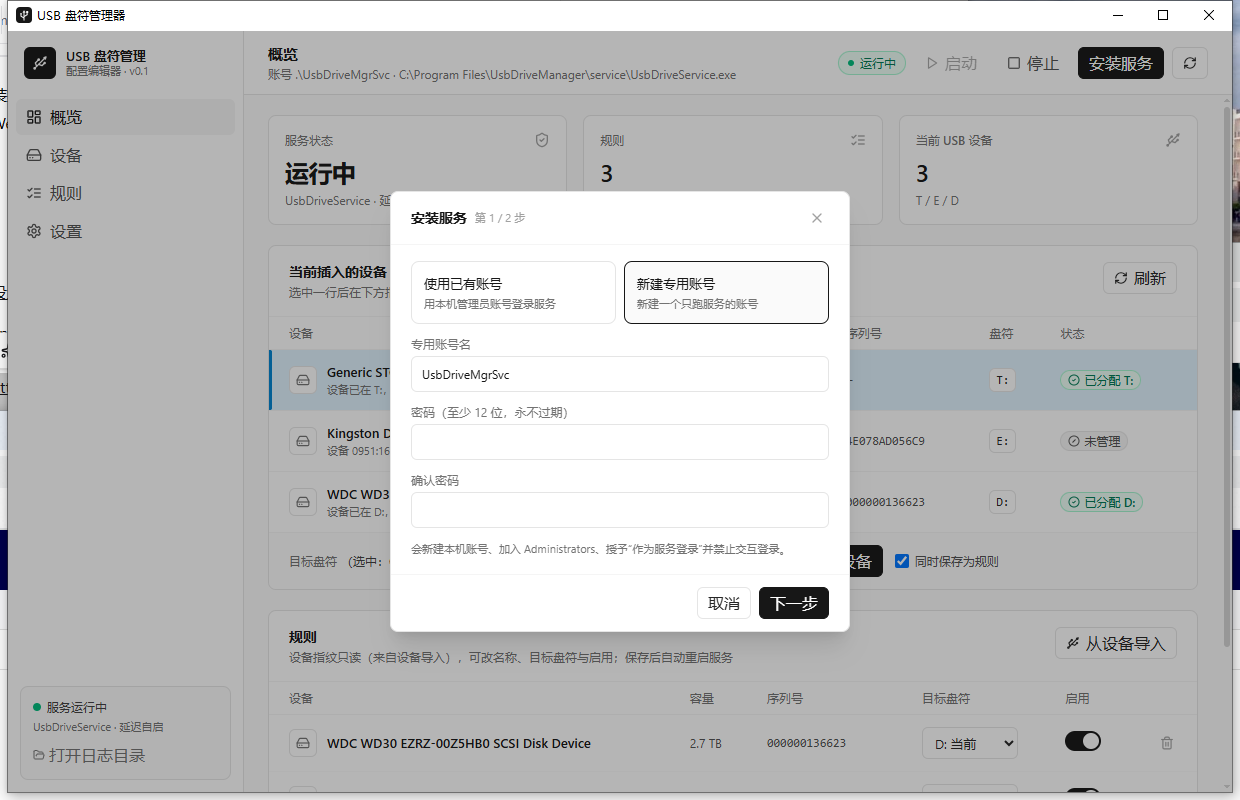
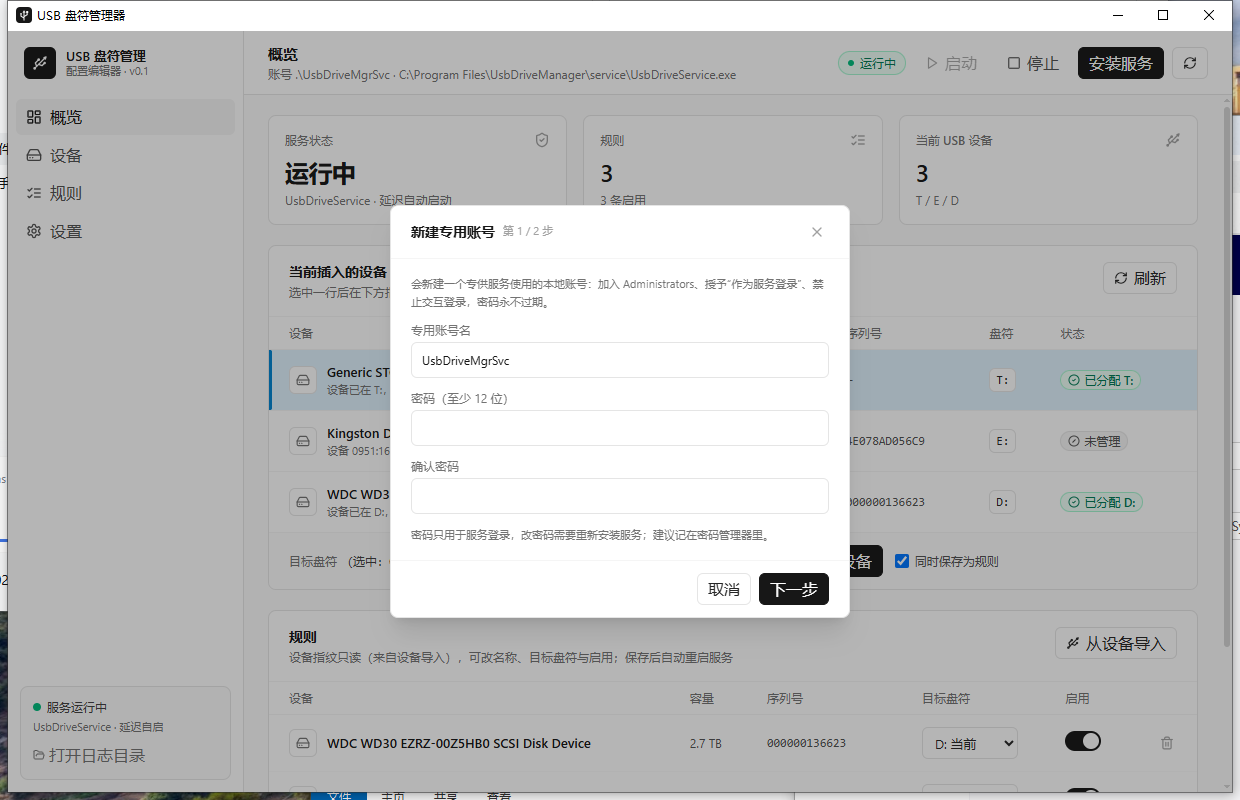
fix: 服务账号校验改用网络/服务登录，修复 1385；安装向导只保留新建账号
服务账号默认禁止交互登录，LogonUser(INTERACTIVE) 必然 1385；改为 NETWORK/SERVICE 依次尝试。向导去掉“已有账号”分支。

diff --git a/src/UsbConfigEditor.Web/src/App.tsx b/src/UsbConfigEditor.Web/src/App.tsx
@@ -209,11 +209,10 @@ function InstallDialog({
 }: {
   open: boolean
   onClose: () => void
-  onSubmit: (mode: 'existing' | 'create', account: string, password: string) => Promise<void>
+  onSubmit: (account: string, password: string) => Promise<void>
 }) {
   const [step, setStep] = useState<1 | 2 | 3>(1)
-  const [mode, setMode] = useState<'existing' | 'create'>('existing')
-  const [account, setAccount] = useState('')
+  const [account, setAccount] = useState('UsbDriveMgrSvc')
   const [password, setPassword] = useState('')
   const [confirm, setConfirm] = useState('')
   const [error, setError] = useState('')
@@ -229,19 +228,10 @@ function InstallDialog({
 
   if (!open) return null
 
-  const switchMode = (next: 'existing' | 'create') => {
-    setMode(next)
-    setAccount(next === 'create' ? 'UsbDriveMgrSvc' : '')
-    setError('')
-  }
-
   const validate = () => {
     if (!account.trim()) return '账号不能为空'
-    if (!password) return '密码不能为空'
-    if (mode === 'create') {
-      if (password.length < 12) return '新建账号的密码至少 12 位'
-      if (password !== confirm) return '两次输入的密码不一致'
-    }
+    if (password.length < 12) return '密码至少 12 位'
+    if (password !== confirm) return '两次输入的密码不一致'
     return ''
   }
 
@@ -259,7 +249,7 @@ function InstallDialog({
     setInstalling(true)
     setError('')
     try {
-      await onSubmit(mode, account.trim(), password)
+      await onSubmit(account.trim(), password)
       setStep(3)
     } catch (failure) {
       setError(failure instanceof Error ? failure.message : String(failure))
@@ -268,7 +258,7 @@ function InstallDialog({
     }
   }
 
-  const title = step === 3 ? '安装完成' : step === 2 ? '确认安装' : '安装服务'
+  const title = step === 3 ? '安装完成' : step === 2 ? '确认安装' : '新建专用账号'
 
   return (
     <div className="fixed inset-0 z-50 flex items-center justify-center bg-neutral-950/30 p-6">
@@ -276,11 +266,7 @@ function InstallDialog({
         <div className="flex items-center justify-between border-b border-neutral-100 px-5 py-3.5">
           <div className="flex items-center gap-2">
             <h3 className="text-sm font-semibold text-neutral-900">{title}</h3>
-            {step < 3 && (
-              <span className="text-[11px] text-neutral-400">
-                第 {step} / 2 步
-              </span>
-            )}
+            {step < 3 && <span className="text-[11px] text-neutral-400">第 {step} / 2 步</span>}
           </div>
           <button onClick={onClose} className="rounded p-1 text-neutral-400 hover:bg-neutral-100">
             <X className="h-4 w-4" />
@@ -289,41 +275,22 @@ function InstallDialog({
 
         {step === 1 && (
           <div className="space-y-3 px-5 py-4">
-            <div className="grid grid-cols-2 gap-2">
-              {(
-                [
-                  ['existing', '使用已有账号', '用本机管理员账号登录服务'],
-                  ['create', '新建专用账号', '新建一个只跑服务的账号'],
-                ] as const
-              ).map(([value, label, hint]) => (
-                <button
-                  key={value}
-                  onClick={() => switchMode(value)}
-                  className={cx(
-                    'rounded-lg border p-3 text-left transition-colors',
-                    mode === value
-                      ? 'border-neutral-900 bg-neutral-50'
-                      : 'border-neutral-200 hover:border-neutral-300',
-                  )}
-                >
-                  <div className="text-[13px] font-medium text-neutral-900">{label}</div>
-                  <div className="mt-0.5 text-[11px] leading-snug text-neutral-500">{hint}</div>
-                </button>
-              ))}
-            </div>
+            <p className="text-[11px] leading-relaxed text-neutral-500">
+              会新建一个专供服务使用的本地账号：加入 Administrators、授予“作为服务登录”、禁止交互登录，密码永不过期。
+            </p>
 
             <label className="block text-xs text-neutral-500">
-              {mode === 'existing' ? '账号（本机账号或 DOMAIN\\user）' : '专用账号名'}
+              专用账号名
               <input
                 value={account}
                 onChange={(event) => setAccount(event.target.value)}
-                placeholder={mode === 'existing' ? '例如 anturong 或 CORP\\svc_usb' : '例如 UsbDriveMgrSvc'}
+                placeholder="例如 UsbDriveMgrSvc"
                 className="mt-1 h-9 w-full rounded-md border border-neutral-200 px-2.5 text-[13px] text-neutral-900 outline-none focus:border-neutral-400"
               />
             </label>
 
             <label className="block text-xs text-neutral-500">
-              {mode === 'existing' ? '该账号的密码' : '密码（至少 12 位，永不过期）'}
+              密码（至少 12 位）
               <input
                 type="password"
                 value={password}
@@ -332,24 +299,20 @@ function InstallDialog({
               />
             </label>
 
-            {mode === 'create' && (
-              <label className="block text-xs text-neutral-500">
-                确认密码
-                <input
-                  type="password"
-                  value={confirm}
-                  onChange={(event) => setConfirm(event.target.value)}
-                  className="mt-1 h-9 w-full rounded-md border border-neutral-200 px-2.5 text-[13px] text-neutral-900 outline-none focus:border-neutral-400"
-                />
-              </label>
-            )}
+            <label className="block text-xs text-neutral-500">
+              确认密码
+              <input
+                type="password"
+                value={confirm}
+                onChange={(event) => setConfirm(event.target.value)}
+                className="mt-1 h-9 w-full rounded-md border border-neutral-200 px-2.5 text-[13px] text-neutral-900 outline-none focus:border-neutral-400"
+              />
+            </label>
 
             {error ? <div className="text-xs text-red-600">{error}</div> : null}
 
             <p className="text-[11px] leading-relaxed text-neutral-500">
-              {mode === 'existing'
-                ? '只验证并补授“作为服务登录”，不会修改该账号的密码或标志位。'
-                : '会新建本机账号、加入 Administrators、授予“作为服务登录”并禁止交互登录。'}
+              密码只用于服务登录，改密码需要重新安装服务；建议记在密码管理器里。
             </p>
           </div>
         )}
@@ -359,9 +322,7 @@ function InstallDialog({
             <div className="divide-y divide-neutral-100 rounded-lg border border-neutral-200 text-[13px]">
               <div className="flex items-center justify-between px-3 py-2">
                 <span className="text-neutral-500">方式</span>
-                <span className="text-neutral-900">
-                  {mode === 'existing' ? '使用已有账号登录' : '新建专用账号'}
-                </span>
+                <span className="text-neutral-900">新建专用账号</span>
               </div>
               <div className="flex items-center justify-between px-3 py-2">
                 <span className="text-neutral-500">账号</span>
@@ -379,7 +340,7 @@ function InstallDialog({
               安装会先停掉旧服务，再按上面的账号注册并启动；配置和日志不受影响。
             </p>
 
-            {error ? <div className="text-xs text-red-600 whitespace-pre-wrap">{error}</div> : null}
+            {error ? <div className="whitespace-pre-wrap text-xs text-red-600">{error}</div> : null}
           </div>
         )}
 
@@ -1093,8 +1054,8 @@ export default function App() {
       <InstallDialog
         open={installOpen}
         onClose={() => setInstallOpen(false)}
-        onSubmit={async (mode, account, password) => {
-          await call('installService', { mode, account, password })
+        onSubmit={async (account, password) => {
+          await call('installService', { mode: 'create', account, password })
           await refresh()
         }}
       />

diff --git a/src/UsbConfigEditor/Services/AccountManager.cs b/src/UsbConfigEditor/Services/AccountManager.cs
@@ -25,21 +25,43 @@ internal static class AccountManager
         var domain = qualified[..split];
         var user = qualified[(split + 1)..];
 
-        if (!NativeMethods.LogonUser(user, domain, password, NativeMethods.Logon32LogonInteractive, NativeMethods.Logon32ProviderDefault, out var token))
+        // 服务账号通常被禁止交互登录（SeDenyInteractiveLogonRight），所以先用网络登录校验密码，
+        // 失败再试服务登录；两者都不依赖交互式登录权限。
+        var logonTypes = new[]
         {
-            var error = Marshal.GetLastWin32Error();
-            var message = error switch
-            {
-                1326 => "账号或密码不正确。",
-                1331 => "该账号已被禁用。",
-                1907 => "该账号的密码已过期，请先改密。",
-                _ => $"账号验证失败（错误 {error}）。",
-            };
+            NativeMethods.Logon32LogonNetwork,
+            NativeMethods.Logon32LogonService,
+        };
 
-            throw new Win32Exception(error, message);
+        var lastError = 0;
+
+        foreach (var logonType in logonTypes)
+        {
+            if (NativeMethods.LogonUser(user, domain, password, logonType, NativeMethods.Logon32ProviderDefault, out var token))
+            {
+                NativeMethods.CloseHandle(token);
+                return;
+            }
+
+            lastError = Marshal.GetLastWin32Error();
+
+            // 密码错/账号禁用/密码过期：换登录类型也没用。
+            if (lastError is 1326 or 1331 or 1907)
+            {
+                break;
+            }
         }
 
-        NativeMethods.CloseHandle(token);
+        var message = lastError switch
+        {
+            1326 => "账号或密码不正确。",
+            1331 => "该账号已被禁用。",
+            1907 => "该账号的密码已过期，请先改密。",
+            1385 => "该账号不允许以所需方式登录（可能被策略限制），请换一个账号或检查本地安全策略。",
+            _ => $"账号验证失败（错误 {lastError}）。",
+        };
+
+        throw new Win32Exception(lastError, message);
     }
 
     public static bool IsAdministrator(string account)

diff --git a/src/UsbConfigEditor/Native/NativeMethods.cs b/src/UsbConfigEditor/Native/NativeMethods.cs
@@ -120,6 +120,8 @@ internal static class NativeMethods
     public static extern bool CloseHandle(IntPtr handle);
 
     public const int Logon32LogonInteractive = 2;
+    public const int Logon32LogonNetwork = 3;
+    public const int Logon32LogonService = 5;
     public const int Logon32ProviderDefault = 0;
     public const int LgIncludeIndirect = 1;
 

diff --git a/release/notes.md b/release/notes.md
@@ -1,17 +1,16 @@
-## USBOrder 0.1.2
+## USBOrder 0.1.3
 
 Windows 无人值守机器用的 U 盘盘符管理工具：按设备指纹（VID/PID + 序列号）把固定盘符分配给指定 U 盘，插上就是你要的盘符。
 
-### 0.1.2 变更
+### 0.1.3 变更
 
-- **安装服务改成两步向导**：先选「使用已有账号」或「新建专用账号」，填好账号密码后「下一步」确认，再点「安装并启动」；成功后直接显示已登录的账号，不用再登录一次。
-- **设置页新增「账号与服务」**：显示当前运行服务的账号，提供「退出登录」——卸载服务后用另一个账号重新安装。
-- **修复“复制文件失败：clrjit.dll 被占用”**：服务改为安装到 `Program Files\UsbDriveManager\service` 子目录，不再和编辑器自己的运行时 dll 互相覆盖。
-- **自动刷新**：服务被重启、窗口重新获得焦点、应用盘符或保存规则之后，界面自动刷新盘符占用。
+- **修复“账号验证失败（错误 1385）”**：服务账号默认禁止交互登录，之前用交互式登录验密码会必然失败；改用网络/服务登录方式校验，已验证通过。
+- **安装流程简化**：只保留「新建专用账号」一种方式，去掉“使用已有账号”分支，避免两套流程都出问题。
+- 保留 0.1.2 的：两步向导（下一步 → 确认 → 安装并启动 → 显示已登录账号）、设置页「账号与服务」与「退出登录」、服务装到 `service` 子目录、自动刷新。
 
 ### 界面
 
-**安装向导**（0.1.2 新增）：
+**安装向导**（两步：填账号密码 → 确认安装）：
 
 ![安装向导](https://cdn.jsdelivr.net/gh/anturong/USBOrder@main/docs/screenshots/wizard.png)
 
@@ -31,15 +30,15 @@ Windows 无人值守机器用的 U 盘盘符管理工具：按设备指纹（VID
 
 ### 安装
 
-- **绿色版**：解压 `USBOrder-0.1.2-portable-win-x64.zip`，运行 `UsbConfigEditor.exe`（需管理员），按向导安装服务
+- **绿色版**：解压 `USBOrder-0.1.3-portable-win-x64.zip`，运行 `UsbConfigEditor.exe`（需管理员），按向导安装服务
 - **MSI**：双击安装到 `C:\Program Files\UsbDriveManager`，生成开始菜单/桌面快捷方式；服务仍由向导安装
 
 ### 校验
 
 | 文件 | SHA256 |
 |---|---|
[4 lines of base64/hex data omitted]
 
 ### 后续计划
 
